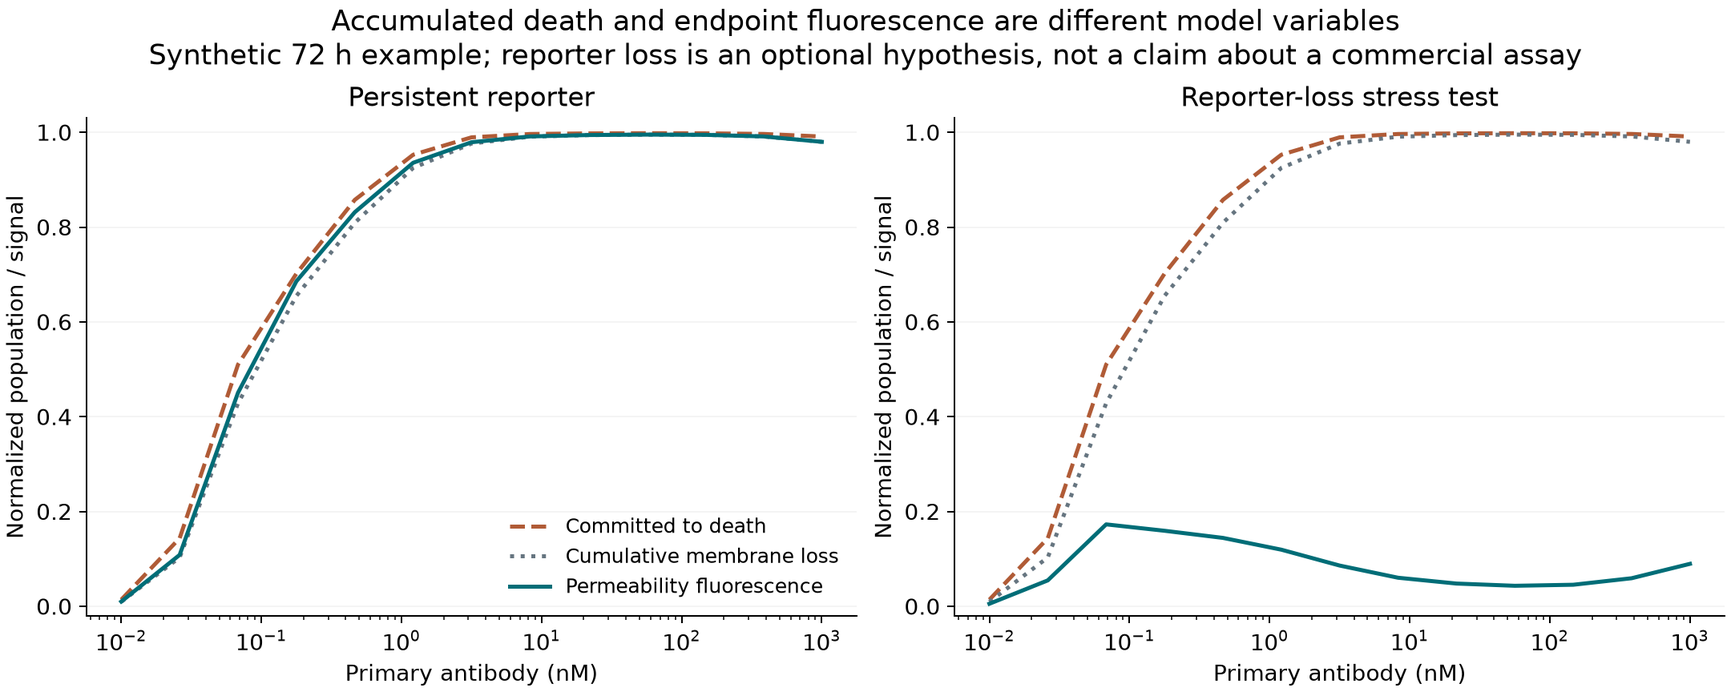
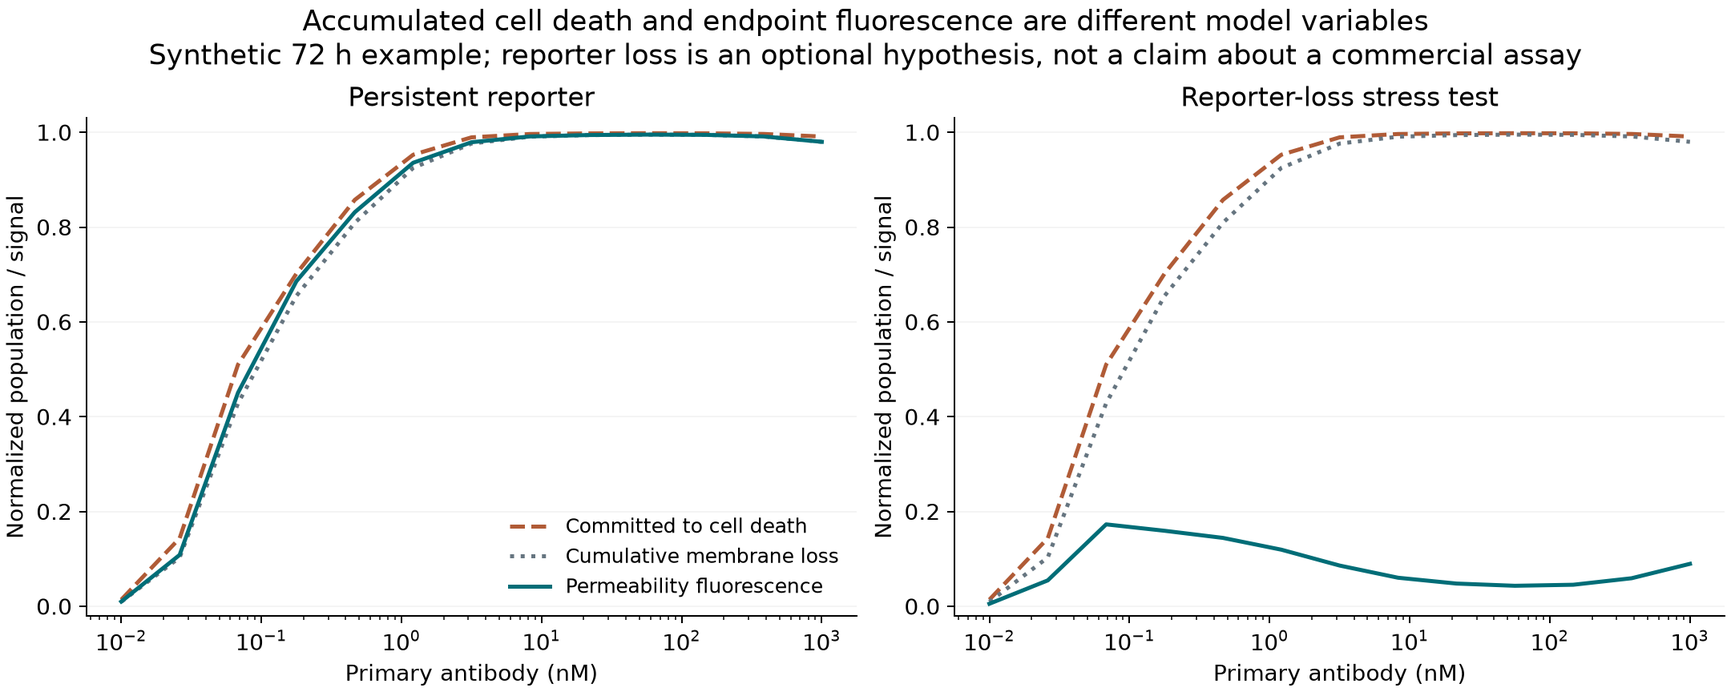
Use cell death consistently in article and embedded figures

Changed region(s): [[0.1861, 0.0, 0.8375, 0.0625], [0.4032, 0.75, 0.4653, 0.7812]]

diff --git a/article.html b/article.html
@@ -16,7 +16,7 @@
 <p>Modeling antibody–drug conjugate potency in vitro begins with a distinction that a concentration–response curve tends to conceal: the concentration added is not the exposure experienced by the intracellular payload target. Receptor engagement, internalization, sorting, processing, and productive intracellular access intervene between the administered conjugate and its biological effect (<a href="https://pmc.ncbi.nlm.nih.gov/articles/PMC3564878/">Ritchie et al.</a>). A mechanistic model must therefore connect molecular delivery to cellular response before connecting that response to the assay signal. Fitting a potency midpoint describes the final relationship; it does not establish how that relationship was produced.</p>
 <p>An indirect secondary-antibody–toxin assay adds another dependency. The targeting antibody and the toxin-bearing reagent are separate molecules that must assemble into a delivery-competent complex. Such systems have been used to test receptor-directed cytotoxicity, but their reagent competition is not equivalent to the behavior of a preformed ADC (<a href="https://pmc.ncbi.nlm.nih.gov/articles/PMC2978776/">Quadros et al.</a>). The model developed here addresses this indirect format. It follows primary antibody, secondary conjugate, and receptor as distinct inventories rather than treating primary concentration as though it were already a dose of intracellular toxin.</p>
 <p>The hook is where that distinction becomes difficult to ignore. Increasing primary antibody can reduce the eventual response even while receptor occupancy remains high. Read as a conventional potency curve, such a result could suggest a less effective targeting antibody, a resistant organoid, or a loss of activity at high dose; in the model, it can instead arise from how a finite secondary supply is partitioned among primary molecules. A monotonic fit cannot represent the declining branch, and choosing only one part of the curve changes what the reported midpoint describes. Understanding the hook is therefore necessary not merely to improve the curve, but to determine what an apparent potency difference can legitimately be attributed to.</p>
-<p>Here, accumulation denotes an exposure format in which added reagents remain with the organoids throughout the incubation, without intervening reagent removal or medium replacement. Their free concentrations can nevertheless change as binding, transport, and uptake proceed; accumulation does not imply that every molecular inventory or signal increases continuously. The measured endpoint consequently reflects the history of a changing system. If increasing secondary removes the hook, the improved curve could reflect more productive assembly, displacement of the decline beyond the tested primary concentrations, or enough additional exposure to drive a nonlinear death response toward its ceiling. Establishing which of these occurred is the mechanistic problem.</p>
+<p>Here, accumulation denotes an exposure format in which added reagents remain with the organoids throughout the incubation, without intervening reagent removal or medium replacement. Their free concentrations can nevertheless change as binding, transport, and uptake proceed; accumulation does not imply that every molecular inventory or signal increases continuously. The measured endpoint consequently reflects the history of a changing system. If increasing secondary removes the hook, the improved curve could reflect more productive assembly, displacement of the decline beyond the tested primary concentrations, or enough additional exposure to drive a nonlinear cell death response toward its ceiling. Establishing which of these occurred is the mechanistic problem.</p>
 <p>The distinction is substantial even in a deliberately simplified model. At 72 hours, two simulated antibody conditions produce normalized permeability signals of 0.985 and 0.980. On an endpoint plot, they look almost interchangeable. On the model's assigned payload scale, one has delivered 9,724 productive equivalents per initial cell; the other, 3,584. Almost the same fluorescence is compatible with approximately 63% less cumulative delivery. The absolute inventories depend on that assigned scale; the relative difference survives a shared rescaling of delivery and cellular susceptibility.</p>
 <p>The accompanying <a href="https://datarichinsightpoor.github.io/organoid-hook-model/">Organoid Hook Model</a> follows this problem from reagent binding through receptor trafficking, intracellular payload, recoverable damage, and membrane-integrity fluorescence. Its 5,304 simulations use illustrative parameters and are not fitted to experimental data. Published work provides both a direct secondary-toxin cytotoxicity precedent and explicit hook observations in secondary-labeled binding and internalization assays, but these establish different parts of the argument (<a href="https://pmc.ncbi.nlm.nih.gov/articles/PMC2978776/">Quadros et al.</a>; <a href="https://pmc.ncbi.nlm.nih.gov/articles/PMC5842027/">Shembekar et al.</a>; <a href="https://pmc.ncbi.nlm.nih.gov/articles/PMC4708616/">Riedl et al.</a>). None of those studies validates the complete receptor-to-CellTox sequence in tumor organoids. The model asks what follows from joining the mechanisms, and which measurements would distinguish their consequences.</p>
 <h2>Stoichiometry</h2>
@@ -62,7 +62,7 @@ C_{\mathrm{eq}}&amp;\approx A_0,\\[6pt]
 \frac{dP}{dt}=\eta d\,k_{\mathrm{deg}}W_c-k_PP.
 \]</p>
 <p>\(W_c\) is the endosomal ternary-complex inventory in copies per initial cell, \(k_{\mathrm{deg}}\) is its processing rate, \(d\) is the effective payload yield per secondary conjugate, and \(\eta\) is the fraction becoming productive intracellular payload. \(P\) is the current productive inventory in equivalents per initial cell, \(t\) is time in hours, and \(k_P\) is its first-order loss rate; both rate constants have units of inverse hours. The source term, \(\eta d\,k_{\mathrm{deg}}W_c\), is the delivery flux. Integrating that term gives cumulative delivery, whereas the inventory \(P\) also subtracts what has been lost. The implementation ties endosomal receptor degradation and complex processing to the same rate, with unresolved productive access represented by \(\eta\). This is a bookkeeping assumption, not a biological rule that faster receptor degradation necessarily improves toxin delivery. A system in which processing competes with toxin destruction would require those routes to be separated.</p>
-<p>At 24 hours in the reference simulation, the population-weighted delivery flux is approximately 160 equivalents per initial cell per hour, while payload loss is 87. The current inventory is therefore increasing by about 73 equivalents per initial cell per hour and contains approximately 1,510 equivalents. The fluorescence signal is only 0.213 because damage accumulation, death commitment, and membrane permeabilization have their own kinetics. A payload measurement at that time and an endpoint fluorescence measurement answer different questions even when both are technically accurate.</p>
+<p>At 24 hours in the reference simulation, the population-weighted delivery flux is approximately 160 equivalents per initial cell per hour, while payload loss is 87. The current inventory is therefore increasing by about 73 equivalents per initial cell per hour and contains approximately 1,510 equivalents. The fluorescence signal is only 0.213 because damage accumulation, cell death commitment, and membrane permeabilization have their own kinetics. A payload measurement at that time and an endpoint fluorescence measurement answer different questions even when both are technically accurate.</p>
 <p>The meaning of turnover also depends on which pool is turning over. The receptor parameter exposed in the atlas is the degradation half-time of retained endosomal receptor in the absence of recycling, rather than the measured half-life of the whole cellular receptor pool. Maintaining the same starting surface abundance while changing that rate requires a different synthesis flux. Comparisons described simply as “equal receptor expression” can therefore impose unequal replacement capacity within the model.</p>
 <p><img alt="Three cellular trafficking schematics show slow internalization, rapid recycling, and endosomal retention, with the separate internalization rates for free, primary-bound, and ternary-bound receptor and the recycling rate for each preset." src="figures/cell-trafficking.png" /></p>
 <p>Figure 2. The receptor atlas compares three joint trafficking presets, not three isolated changes in one rate. The cellular sketches follow the internalized ternary complex; analogous internalization and recycling terms apply to free and primary-bound receptor. Initial surface copies and the conditional degradation half-time of retained endosomal receptor are independent atlas axes. Arrow weights are qualitative, and the simplified drawings omit synthesis and other unchanged terms. <a href="https://datarichinsightpoor.github.io/organoid-hook-model/figures/cell-trafficking.png">Open the full-resolution schematic</a>.</p>
@@ -82,22 +82,22 @@ C_{\mathrm{eq}}&amp;\approx A_0,\\[6pt]
 <p>CellTox Green reports DNA accessibility after membrane compromise, according to its technical definition, rather than receptor binding or intracellular payload (<a href="https://www.promega.com/resources/protocols/technical-manuals/101/celltox-green-cytotoxicity-assay-protocol/">CellTox Green technical manual</a>). Other viability methods interrogate metabolism, membrane integrity, or related cell properties through different measurement processes (<a href="https://pmc.ncbi.nlm.nih.gov/articles/PMC11719996/">Madorran et al.</a>). Treating their outputs as interchangeable percentages assumes the biological relationships that an orthogonal assay is supposed to test.</p>
 <p>The relevant readout evidence is not uniformly cautionary. Chiaraviglio and Kirby tested CellTox Green among impermeant DNA-binding dyes and found sustained assay separation during a three-day incubation in J774 cells (<a href="https://pmc.ncbi.nlm.nih.gov/articles/PMC4026211/">Chiaraviglio and Kirby</a>). That supports longitudinal use under the tested conditions, without measuring a universal persistence constant or validating a matrix-embedded organoid assay. The manufacturer's protocol separately identifies compound autofluorescence, quenching, competition by DNA-intercalating compounds, and DNA fragments in extracellular matrix as possible sources of interference (<a href="https://www.promega.de/-/media/files/resources/protocols/technical-manuals/101/celltox-green-cytotoxicity-assay-protocol.pdf">CellTox Green technical manual</a>). Those assay-specific possibilities should be investigated before a decline is assigned to an assumed loss of dead-cell reporter.</p>
 <p>Lewis and colleagues made this issue concrete by comparing CellTox Green, LDH, MTS, and CellTiter-Glo in human intestinal organoid-derived cultures (<a href="https://pmc.ncbi.nlm.nih.gov/articles/PMC11164375/">Lewis et al.</a>). For ritonavir in one line, the estimated CC50 was 68 μM by LDH and 73 μM by CellTox, compared with 139 μM by ATP and a value above 158 μM by MTS because the response had not crossed 50% within the tested range (<a href="https://pmc.ncbi.nlm.nih.gov/articles/PMC11164375/">Lewis et al.</a>). The study was primarily in intestinal monolayers, with a limited 3D comparison, and explicitly left broader generalization across drugs and organoid formats unresolved (<a href="https://pmc.ncbi.nlm.nih.gov/articles/PMC11164375/">Lewis et al.</a>). Its relevance is the experimentally demonstrated dependence of the reported response on both the culture and the assay, not a transferable correction factor for tumor organoids.</p>
-<p>Repeated measurements also separate events that an endpoint combines. Forcina and colleagues used STACK to resolve the onset and subsequent rate of population cell death, finding substantially different kinetics among compounds with similar overall lethality (<a href="https://pmc.ncbi.nlm.nih.gov/articles/PMC5509363/">Forcina et al.</a>). In the present model, cells accumulate damage, become committed to death, and then become membrane-permeable after a delay. The connection to fluorescence becomes clearer when written as an integral over that history. With no initial reporter-accessible material and a linear observation process, the normalized signal is</p>
+<p>Repeated measurements also separate events that an endpoint combines. Forcina and colleagues used STACK to resolve the onset and subsequent rate of population cell death, finding substantially different kinetics among compounds with similar overall lethality (<a href="https://pmc.ncbi.nlm.nih.gov/articles/PMC5509363/">Forcina et al.</a>). In the present model, cells accumulate damage, become committed to cell death, and then become membrane-permeable after a delay. The connection to fluorescence becomes clearer when written as an integral over that history. With no initial reporter-accessible material and a linear observation process, the normalized signal is</p>
 <p>\[
 F(t)=\sum_j\omega_j
 \int_0^t r_j(u)\,e^{-k_{\mathrm{loss}}(t-u)}\,du.
 \]</p>
-<p>The index \(j\) identifies a tissue shell, and \(u\) is the earlier time at which cells became permeable. The entry rate \(r_j(u)\), measured as a fraction of that shell's initial cells per hour, equals \(k_{\mathrm{perm}}E_j(u)\): \(E_j\) is the fraction committed to death but not yet permeable, and \(k_{\mathrm{perm}}\) is the first-order permeabilization rate in inverse hours. The normalized optical weight \(\omega_j=w_jo_j/\sum_\ell w_\ell o_\ell\) combines the shell's initial-cell fraction \(w_j\) with its relative optical contribution \(o_j\); \(\ell\) runs over the same shells. Finally, \(k_{\mathrm{loss}}\) is the first-order loss rate of reportable material. Thus \(F\) is dimensionless and referenced to complete, persistent permeabilization of the initial population, rather than calibrated fluorescence units.</p>
+<p>The index \(j\) identifies a tissue shell, and \(u\) is the earlier time at which cells became permeable. The entry rate \(r_j(u)\), measured as a fraction of that shell's initial cells per hour, equals \(k_{\mathrm{perm}}E_j(u)\): \(E_j\) is the fraction committed to cell death but not yet permeable, and \(k_{\mathrm{perm}}\) is the first-order permeabilization rate in inverse hours. The normalized optical weight \(\omega_j=w_jo_j/\sum_\ell w_\ell o_\ell\) combines the shell's initial-cell fraction \(w_j\) with its relative optical contribution \(o_j\); \(\ell\) runs over the same shells. Finally, \(k_{\mathrm{loss}}\) is the first-order loss rate of reportable material. Thus \(F\) is dimensionless and referenced to complete, persistent permeabilization of the initial population, rather than calibrated fluorescence units.</p>
 <p>With \(k_{\mathrm{loss}}=0\), every past entry into the permeable state retains equal weight within its shell. Fluorescence accumulates a record of membrane compromise, even after the intracellular payload responsible for it has declined. A positive loss rate progressively discounts older events. The equation separates two histories that an endpoint otherwise conflates: when cells became permeable and how much of that event remains observable at the time of reading.</p>
-<p>Reporter loss illustrates a mathematical possibility, not an established explanation for this CellTox assay. In an optional simulation, approximately 99% of the initial population has committed to death at the highest primary concentration, while normalized fluorescence is only about 9%, because reportable material has been allowed to disappear after permeabilization. Earlier killing leaves more time for that loss. The same death trajectory therefore produces different endpoint curves depending on whether the reporter remains observable; the simulated difference is not evidence that such loss actually occurs.</p>
+<p>Reporter loss illustrates a mathematical possibility, not an established explanation for this CellTox assay. In an optional simulation, approximately 99% of the initial population has committed to cell death at the highest primary concentration, while normalized fluorescence is only about 9%, because reportable material has been allowed to disappear after permeabilization. Earlier killing leaves more time for that loss. The same cell death trajectory therefore produces different endpoint curves depending on whether the reporter remains observable; the simulated difference is not evidence that such loss actually occurs.</p>
 <p>There is a relevant precedent, with an important boundary. Forcina and colleagues observed occasional declines in SYTOX Green-positive object counts, attributed most likely to marker loss from long-dead cells, and incorporated a correction into their lethal-fraction analysis (<a href="https://pmc.ncbi.nlm.nih.gov/articles/PMC5509363/">Forcina et al.</a>). This involved a different dye and counted objects rather than whole-well fluorescence. It motivates measuring persistence in the assay of interest, but supplies neither evidence of CellTox Green decay nor a loss constant for this model. Reporter loss remains off by default. Monotonic detector saturation is a separate issue: it can conceal differences or flatten an increasing response, but cannot by itself reverse the direction of a monotonic input.</p>
 <p><img alt="The same simulated biological response with persistent or transient reporter accessibility." src="figures/readout-separation.png" /></p>
-<p>Figure 6. Cumulative death commitment, membrane permeabilization, and fluorescence with reporter loss disabled or enabled. The loss scenario changes the observation process without changing the underlying killing trajectory. It is an unvalidated observation-model stress test, not a measured property of CellTox Green; reporter loss is disabled in the reference model.</p>
+<p>Figure 6. Cumulative cell death commitment, membrane permeabilization, and fluorescence with reporter loss disabled or enabled. The loss scenario changes the observation process without changing the underlying killing trajectory. It is an unvalidated observation-model stress test, not a measured property of CellTox Green; reporter loss is disabled in the reference model.</p>
 <p>Extending the analysis to ATP requires more than replacing the reporter equation. Hafner and colleagues showed that conventional endpoint drug-response metrics depend on the number of divisions during an assay and introduced growth-rate inhibition metrics to address that confounding (<a href="https://pmc.ncbi.nlm.nih.gov/articles/PMC4887336/">Hafner et al.</a>). The current simulator contains no proliferation. Its ATP-like, LDH-like, and committed-state readouts are alternative observations of a fixed initial population, not calibrated commercial assays or growth-rate-corrected sensitivity estimates.</p>
 <h2>Discriminating mechanisms</h2>
 <p>The useful next measurement depends on what the proposed explanation must account for. If secondary limitation is dominant, increasing secondary should alter surface ternary assembly as well as the final response. If assembly improves while intracellular payload remains inadequate, trafficking and productive processing become the more informative quantities. A spatial explanation requires evidence of redistribution between accessible and poorly reached cells; a bulk increase in antibody uptake is insufficient. A reporter explanation requires divergence between the independently measured biological trajectory and the material that remains observable.</p>
-<p>A primary-by-secondary concentration matrix, paired with time-resolved assembly, delivery, and cell-state measurements, would therefore constrain more than a dense primary titration read once. Target-negative, primary-only, and secondary-only conditions are particularly consequential because nonspecific uptake and toxicity are absent from the model. A secondary-only signal cannot be accommodated honestly by adjusting receptor affinity. A matched nonbinding IgG competitor asks a different question: whether secondary can be diverted without occupying the target, as the Quadros experiment demonstrates (<a href="https://pmc.ncbi.nlm.nih.gov/articles/PMC2978776/">Quadros et al.</a>). Its effect would not by itself establish nonspecific killing. Likewise, failure of the assembly maximum to shift as predicted, under conditions where equilibrium and negligible depletion are defensible, would challenge the independent-binding approximation before any downstream death parameter needed to be fitted.</p>
-<p>Some mismatches will require a different model. Effective 1:1:1 binding omits cross-linking and avidity; there is no aggregate distribution, extracellular cleavage, bystander payload transport, growth, or changing tissue geometry. Trafficking also continues on a fixed initial-cell population after death commitment, which can overestimate late delivery. The reported molecular inventories are consequently per initial cell, not per surviving cell. These limitations matter especially when an endpoint approaches complete killing, precisely where continued modeled delivery becomes least biologically secure.</p>
+<p>A primary-by-secondary concentration matrix, paired with time-resolved assembly, delivery, and cell-state measurements, would therefore constrain more than a dense primary titration read once. Target-negative, primary-only, and secondary-only conditions are particularly consequential because nonspecific uptake and toxicity are absent from the model. A secondary-only signal cannot be accommodated honestly by adjusting receptor affinity. A matched nonbinding IgG competitor asks a different question: whether secondary can be diverted without occupying the target, as the Quadros experiment demonstrates (<a href="https://pmc.ncbi.nlm.nih.gov/articles/PMC2978776/">Quadros et al.</a>). Its effect would not by itself establish nonspecific killing. Likewise, failure of the assembly maximum to shift as predicted, under conditions where equilibrium and negligible depletion are defensible, would challenge the independent-binding approximation before any downstream cell death parameter needed to be fitted.</p>
+<p>Some mismatches will require a different model. Effective 1:1:1 binding omits cross-linking and avidity; there is no aggregate distribution, extracellular cleavage, bystander payload transport, growth, or changing tissue geometry. Trafficking also continues on a fixed initial-cell population after cell death commitment, which can overestimate late delivery. The reported molecular inventories are consequently per initial cell, not per surviving cell. These limitations matter especially when an endpoint approaches complete killing, precisely where continued modeled delivery becomes least biologically secure.</p>
 <h2>Calibration and prediction</h2>
 <p>The model is uncalibrated: its parameter values have not been estimated against matched experimental measurements from a defined antibody, conjugate, receptor, and organoid system. The reported hook positions, delivery inventories, and fluorescence values are therefore conditional consequences of the chosen assumptions, not quantitative predictions for a particular assay. The 5,304 simulations explore that assumed system; their number does not supply experimental support for it. The software tests address mathematical bookkeeping and numerical behavior, leaving the biological accuracy of the inputs and structure to experimental evaluation.</p>
 <p>Calibration would begin by constraining the model with measurements that distinguish its stages: accessible receptor copies, binding and complex formation, trafficking and intracellular processing, and time-resolved cell-state and reporter responses. Independently measured quantities would set inputs or defensible bounds; the remaining parameters would be estimated jointly from complementary observations across concentrations and times, with measurement error and preparation-to-preparation variability carried into the uncertainty analysis. A fluorescence titration alone would leave important ambiguities. In this model, for example, payload yield and productive-release efficiency enter the delivery term as a product; even excellent agreement with the final curve cannot identify them separately without additional information. Where the data constrain only such a combination, that combination should be reported rather than assigning unwarranted precision to its components.</p>
@@ -108,9 +108,9 @@ F(t)=\sum_j\omega_j
 <p>The <a href="https://datarichinsightpoor.github.io/organoid-hook-model/">Organoid Hook Model</a> makes the sequence examined in this article accessible in a browser, without installation. Its underlying Python implementation solves coupled differential equations for antibody binding, receptor internalization and recycling, intracellular processing, productive payload, recoverable damage, and transitions toward membrane compromise. A finite external bath exchanges material with three concentric organoid shells, allowing local receptor abundance and tissue access to influence delivery. Fluorescence and the alternative assay proxies are calculated from those evolving states through separate observation equations.</p>
 <p>The browser offers two complementary views. The receptor atlas compares selected receptor copy numbers, trafficking behaviors, endosomal degradation half-times, addition orders, and observation times across primary and secondary concentrations. The mechanism lab examines specified changes in transport, core expression, productive release, downstream recovery, or reporter persistence. Switching the plotted quantity from fluorescence to surface complex, intracellular payload, or cumulative delivery exposes where two apparently similar response curves cease to agree. Exact values, parameter files, and chart exports make those comparisons inspectable beyond the screen.</p>
 <p>Begin with the <a href="https://datarichinsightpoor.github.io/organoid-hook-model/#start-here">Start here guide</a>, then change one assumption and ask whether fluorescence and productive delivery still tell the same story. The aim is not to predict your assay, but to examine which interpretations survive the comparison.</p>
-<p>For a closer view, <a href="https://datarichinsightpoor.github.io/organoid-hook-model/#follow-one-simulation">Follow one simulation</a> traces a fixed reference system across six time points and three reagent conditions. It connects the initial receptor inventory to surface assembly, intracellular delivery, damage, death commitment, and fluorescence, with downloadable trajectories and a reproduction script. This walkthrough is independent of the main explorer controls; its purpose is to make the molecular accounting explicit before introducing the larger parameter space. The <a href="https://datarichinsightpoor.github.io/organoid-hook-model/worked-example.html">worked example</a> supplies the numerical substitutions, while the <a href="https://datarichinsightpoor.github.io/organoid-hook-model/equations.html">mathematical specification</a> defines the full equations, variables, units, and assumptions.</p>
+<p>For a closer view, <a href="https://datarichinsightpoor.github.io/organoid-hook-model/#follow-one-simulation">Follow one simulation</a> traces a fixed reference system across six time points and three reagent conditions. It connects the initial receptor inventory to surface assembly, intracellular delivery, damage, cell death commitment, and fluorescence, with downloadable trajectories and a reproduction script. This walkthrough is independent of the main explorer controls; its purpose is to make the molecular accounting explicit before introducing the larger parameter space. The <a href="https://datarichinsightpoor.github.io/organoid-hook-model/worked-example.html">worked example</a> supplies the numerical substitutions, while the <a href="https://datarichinsightpoor.github.io/organoid-hook-model/equations.html">mathematical specification</a> defines the full equations, variables, units, and assumptions.</p>
 <p>The <a href="https://github.com/dataRichinsightPoor/organoid-hook-model">source code on GitHub</a> includes the Python solver, editable parameter examples, a notebook, automated tests, simulation outputs, and the public-source audit. The browser displays 5,304 precomputed simulations from that implementation; it does not solve new parameter combinations, interpolate between scenarios, or fit an experimental curve. Readers who want to change continuous parameters, exposure duration, or addition delays can run the Python package and generate new trajectories. Keeping the executable model and its assumptions available alongside the figures makes it possible to test how an interpretation depends on the choices that produced it.</p>
-<p>The model therefore supports a narrower, more useful conclusion than “excess primary consumes the secondary.” Finite secondary can generate a genuine assembly hook even when soluble complexes remain receptor competent. Increasing secondary can move that hook, increase delivery, or conceal a remaining deficit behind a near-saturated death response. Published trafficking experiments make clear that a real multivalent reagent may also change the route, rather than merely the amount, of uptake (<a href="https://pmc.ncbi.nlm.nih.gov/articles/PMC4700114/">Moody et al.</a>). Rescue of fluorescence cannot choose among these explanations.</p>
+<p>The model therefore supports a narrower, more useful conclusion than “excess primary consumes the secondary.” Finite secondary can generate a genuine assembly hook even when soluble complexes remain receptor competent. Increasing secondary can move that hook, increase delivery, or conceal a remaining deficit behind a near-saturated cell death response. Published trafficking experiments make clear that a real multivalent reagent may also change the route, rather than merely the amount, of uptake (<a href="https://pmc.ncbi.nlm.nih.gov/articles/PMC4700114/">Moody et al.</a>). Rescue of fluorescence cannot choose among these explanations.</p>
 <p>The nearly superimposable endpoints in the opening example are therefore not evidence of equivalent delivery, and a persistent hook under verified local secondary excess is not evidence of reporter failure. Each is a constraint on an explanation, not the explanation itself. The decisive question is which measured intermediate changes when the curve changes: secondary loading, productive intracellular payload, the cellular response to that payload, or the observation of membrane compromise. A model earns its place here by making those alternatives distinguishable and its own assumptions falsifiable, not by turning an ambiguous curve into a confident diagnosis.</p>
 <h2>References</h2>
 <ol>
